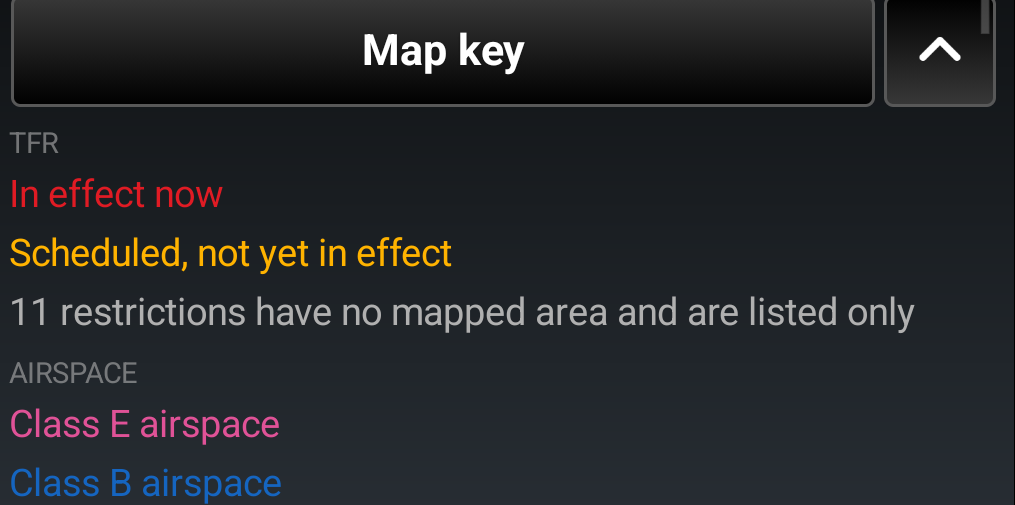
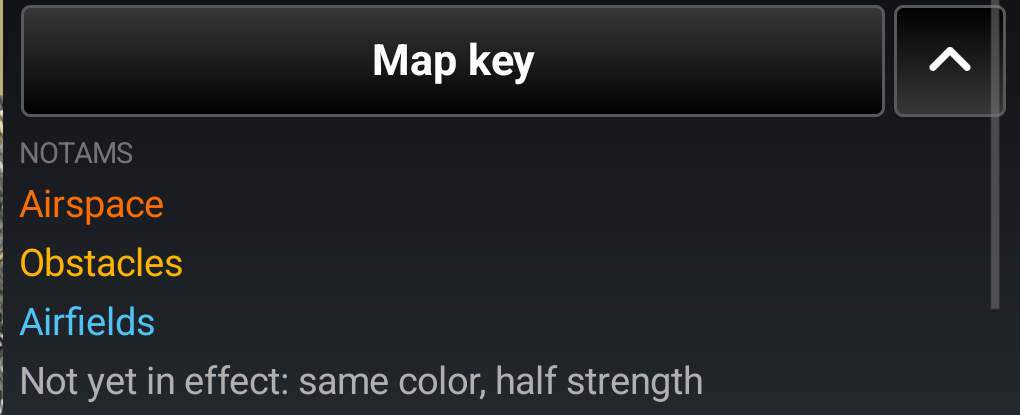
AirAware 0.5: manual, guide and README for NOTAMs; callout cleared on Back
- Manual: two NOTAM pages (the row with its key, a details page), the layer
  list and map key pictures retaken with the new row, the settings list and
  overview updated to seven layers, version stamp 0.5. Pictures from the dev
  build on s10-dev-3, cropped to the pane; the map shot waits for the signed
  build.
- USER_GUIDE and README carry the NOTAM section and the 0.5 download block;
  the plugin description names NOTAMs.
- A tap opening our page now clears ATAK's own focus and pinned callout, and
  Back does too: a pick from ATAK's Select Item list selected the item before
  our page opened and left "UAS / 34.02639 ..." pinned at the top of the map
  after Back (operator, 2026-10-09). UNFOCUS and HIDE_DETAILS are what ATAK's
  own list items send.
- From the security review: a record with a non-finite or off-globe
  coordinate is dropped, a radius is clamped, a tile may not inflate past
  48 MB, tile_degrees is clamped to 1..10.

Changed region(s): [[0.0, 0.0, 1.0, 0.7518], [0.0, 0.694, 0.7025, 1.0], [0.0, 0.5783, 0.9163, 0.6651]]

diff --git a/app/src/main/java/com/atakmap/android/airaware/Notam.java b/app/src/main/java/com/atakmap/android/airaware/Notam.java
@@ -92,7 +92,9 @@ public final class Notam {
             return null;
         final double lat = o.optDouble("lat", Double.NaN);
         final double lon = o.optDouble("lon", Double.NaN);
-        if (Double.isNaN(lat) || Double.isNaN(lon))
+        // Finite and on the globe, or the record is dropped: a NaN or an infinity
+        // handed to the native feature store is a crash, not a bad drawing.
+        if (!finite(lat, 90d) || !finite(lon, 180d))
             return null;
         final List<double[][]> rings = new ArrayList<>();
         final JSONArray p = o.optJSONArray("p");
@@ -109,7 +111,13 @@ public final class Notam {
                         ok = false;
                         break;
                     }
-                    pts[j] = new double[] { c.optDouble(0), c.optDouble(1) };
+                    final double x = c.optDouble(0, Double.NaN);
+                    final double y = c.optDouble(1, Double.NaN);
+                    if (!finite(x, 180d) || !finite(y, 90d)) {
+                        ok = false;
+                        break;
+                    }
+                    pts[j] = new double[] { x, y };
                 }
                 if (ok)
                     rings.add(pts);
@@ -124,7 +132,18 @@ public final class Notam {
                 o.optString("up", ""), o.optString("u", ""),
                 parseTime(o.optString("s", "")), end.isEmpty() ? Long.MAX_VALUE : parseTime(end),
                 "true".equalsIgnoreCase(o.optString("est", "")), lat, lon,
-                Math.max(0d, o.optDouble("r", 0d)), rings);
+                radius(o.optDouble("r", 0d)), rings);
+    }
+
+    private static boolean finite(double v, double limit) {
+        return !Double.isNaN(v) && !Double.isInfinite(v) && Math.abs(v) <= limit;
+    }
+
+    /** A circle's radius, or 0: never negative, never infinite, never wider than a state. */
+    private static double radius(double r) {
+        if (Double.isNaN(r) || Double.isInfinite(r) || r <= 0d)
+            return 0d;
+        return Math.min(r, 500_000d);
     }
 
     /** An FAA time ("2026-10-09T13:59:00Z", with or without millis), PERM, or nothing. */

diff --git a/app/src/main/java/com/atakmap/android/airaware/TilePack.java b/app/src/main/java/com/atakmap/android/airaware/TilePack.java
@@ -119,7 +119,7 @@ public final class TilePack {
         final Index index = new Index();
         index.cycle = root.optString("cycle", "");
         index.built = root.optString("built", "");
-        index.tileDegrees = Math.max(1, root.optInt("tile_degrees", 2));
+        index.tileDegrees = Math.min(10, Math.max(1, root.optInt("tile_degrees", 2)));
         index.credit = root.optString("credit", "");
         final JSONObject tiles = root.optJSONObject("tiles");
         if (tiles != null) {
@@ -271,6 +271,9 @@ public final class TilePack {
         }
     }
 
+    /** The most a tile may inflate to. The largest real one is under 2 MB. */
+    private static final int MAX_INFLATED = 48 * 1024 * 1024;
+
     private static byte[] gunzip(byte[] gz) throws IOException {
         final ByteArrayOutputStream out = new ByteArrayOutputStream(
                 Math.max(64 * 1024, gz.length * 4));
@@ -279,8 +282,11 @@ public final class TilePack {
             in = new GZIPInputStream(new java.io.ByteArrayInputStream(gz));
             final byte[] buf = new byte[32 * 1024];
             int n;
-            while ((n = in.read(buf)) > 0)
+            while ((n = in.read(buf)) > 0) {
                 out.write(buf, 0, n);
+                if (out.size() > MAX_INFLATED)
+                    throw new IOException("tile inflates past " + MAX_INFLATED + " bytes");
+            }
         } finally {
             if (in != null) {
                 try {

diff --git a/app/src/main/java/com/atakmap/android/airaware/plugin/AirAware.java b/app/src/main/java/com/atakmap/android/airaware/plugin/AirAware.java
@@ -287,8 +287,27 @@ public class AirAware implements IPlugin {
             Log.w(TAG, "no radial menu receiver; taps keep ATAK's own menu");
     }
 
+    /**
+     * Take ATAK's own selection off the map: the focus and the callout it pins to the
+     * top ("UAS / N 34.02639 W 118.48278 / 117 ft MSL"). A pick from ATAK's Select Item
+     * list selects the item itself, before our page opens, and answering the menu
+     * question does not reach that path -- so the callout sat there after Back
+     * (operator, 2026-10-09). These two are what ATAK's own list items send.
+     */
+    public static void clearAtakSelection() {
+        try {
+            AtakBroadcast.getInstance().sendBroadcast(
+                    new Intent("com.atakmap.android.maps.UNFOCUS"));
+            AtakBroadcast.getInstance().sendBroadcast(
+                    new Intent("com.atakmap.android.maps.HIDE_DETAILS"));
+        } catch (RuntimeException e) {
+            Log.d(TAG, "could not clear ATAK's selection: " + e);
+        }
+    }
+
     /** Whatever the tapped item is, on AirAware's own page. */
     private void openFor(MapItem item) {
+        clearAtakSelection();
         try {
             final String notam = item.getMetaString("tfr_notam_id", null);
             if (notam != null) {

diff --git a/app/src/main/java/com/atakmap/android/airaware/ui/TfrPane.java b/app/src/main/java/com/atakmap/android/airaware/ui/TfrPane.java
@@ -197,6 +197,8 @@ public class TfrPane implements TfrManager.Listener {
         detailsBack.setOnClickListener(new View.OnClickListener() {
             @Override
             public void onClick(View v) {
+                // Back takes ATAK's pinned callout with it, whichever way the item was picked.
+                com.atakmap.android.airaware.plugin.AirAware.clearAtakSelection();
                 showList();
             }
         });

diff --git a/docs/USER_GUIDE.md b/docs/USER_GUIDE.md
@@ -1,17 +1,17 @@
 # AirAware for ATAK — User Guide
 
-**Version 0.4 · takwerx**
+**Version 0.5 · takwerx**
 
-**Download AirAware 0.4** (pick the one matching your ATAK-CIV version, sideload, then load it in ATAK's Plugins manager):
+**Download AirAware 0.5** (pick the one matching your ATAK-CIV version, sideload, then load it in ATAK's Plugins manager):
 
-- **ATAK-CIV 5.6:** https://github.com/takwerx/air-aware/releases/download/v0.4/ATAK-Plugin-AirAware-0.4--5.6.0-civ-release.apk
-- **ATAK-CIV 5.7:** https://github.com/takwerx/air-aware/releases/download/v0.4/ATAK-Plugin-AirAware-0.4--5.7.0-civ-release.apk
-- **ATAK-CIV 5.8:** https://github.com/takwerx/air-aware/releases/download/v0.4/ATAK-Plugin-AirAware-0.4--5.8.0-civ-release.apk
+- **ATAK-CIV 5.6:** https://github.com/takwerx/air-aware/releases/download/v0.5/ATAK-Plugin-AirAware-0.5--5.6.0-civ-release.apk
+- **ATAK-CIV 5.7:** https://github.com/takwerx/air-aware/releases/download/v0.5/ATAK-Plugin-AirAware-0.5--5.7.0-civ-release.apk
+- **ATAK-CIV 5.8:** https://github.com/takwerx/air-aware/releases/download/v0.5/ATAK-Plugin-AirAware-0.5--5.8.0-civ-release.apk
 
 All releases: https://github.com/takwerx/air-aware/releases
 
 AirAware answers one question for anyone working under or in the air: **what is
-in the column of air I am in, and what am I allowed to do here.** Six layers
+in the column of air I am in, and what am I allowed to do here.** Seven layers
 draw on the map, each switched on its own, and a UAS flight planner works out
 the ceiling a mission area needs.
 
@@ -148,6 +148,46 @@ The shape sits on the map over the restriction it came from.
 still matches a live restriction, with a way to remove one that does not.
 
 ---
+
+## NOTAMs
+
+What is going on in the air right now that no chart shows: drone operations,
+parachute drops, towers with their lights out, cranes, closed runways.
+
+![The NOTAM row open: Kinds, Show at and the key](screenshots/40_notam_row.png)
+
+A takwerx relay reads the FAA NOTAM Management Service every three minutes and
+publishes the picture as tiles; the phone reads the tiles and never holds an
+FAA credential. The row says how many NOTAMs are drawn and how old the FAA
+picture is. If no newer picture has reached the phone, it says so in words.
+
+**Kinds** sorts them the way the FAA does, by the first word of the notice:
+
+- **Airspace** (orange): drone activity, parachute jumping, rockets, fireworks,
+  aerobatics, airdrops, blasting, lasers, balloons, gliders, special use areas
+  going active.
+- **Obstacles** (amber): towers with their lights out, cranes, new structures
+  not yet charted. The label says what it is, what is wrong with it and how
+  tall it is: "Tower lights out 303'".
+- **Airfields** (blue): runways and taxiways closed, lighting, services.
+- **Navigation** (gray-blue, off by default): airways, approaches,
+  departures, navaids. For pilots flying procedures.
+- **Other** (off by default): whatever fits none of those.
+
+Where the FAA gives an area, in its geometry or in its text ("3.4NM RADIUS OF
+293012N0951234W", or a list of corners), the plugin draws it. Otherwise a
+NOTAM is a glyph at its point. A NOTAM that has not started yet is drawn at
+half strength.
+
+![A NOTAM's details page](screenshots/41_notam_details.png)
+
+Tap one for its page: the text as the FAA issued it, when it started and ends,
+its altitudes, the kind, and the airport or center it was filed under. Nothing
+is paraphrased; the abbreviations are the language pilots read.
+
+> A NOTAM is a notice, not a restriction. A drone-activity NOTAM tells pilots
+> to expect drones; it does not close the airspace. Restrictions are the TFR
+> layer. Always check the official NOTAM search before a flight.
 
 ## Airspace
 

diff --git a/README.md b/README.md
@@ -1,10 +1,10 @@
 ATAK Plugin — AirAware
 
-**Download AirAware 0.4** (pick the one matching your ATAK-CIV version, sideload, then load it in ATAK's Plugins manager):
+**Download AirAware 0.5** (pick the one matching your ATAK-CIV version, sideload, then load it in ATAK's Plugins manager):
 
-- **ATAK-CIV 5.6:** https://github.com/takwerx/air-aware/releases/download/v0.4/ATAK-Plugin-AirAware-0.4--5.6.0-civ-release.apk
-- **ATAK-CIV 5.7:** https://github.com/takwerx/air-aware/releases/download/v0.4/ATAK-Plugin-AirAware-0.4--5.7.0-civ-release.apk
-- **ATAK-CIV 5.8:** https://github.com/takwerx/air-aware/releases/download/v0.4/ATAK-Plugin-AirAware-0.4--5.8.0-civ-release.apk
+- **ATAK-CIV 5.6:** https://github.com/takwerx/air-aware/releases/download/v0.5/ATAK-Plugin-AirAware-0.5--5.6.0-civ-release.apk
+- **ATAK-CIV 5.7:** https://github.com/takwerx/air-aware/releases/download/v0.5/ATAK-Plugin-AirAware-0.5--5.7.0-civ-release.apk
+- **ATAK-CIV 5.8:** https://github.com/takwerx/air-aware/releases/download/v0.5/ATAK-Plugin-AirAware-0.5--5.8.0-civ-release.apk
 
 All releases: https://github.com/takwerx/air-aware/releases
 
@@ -19,11 +19,19 @@ in the column of air I am in, and what am I allowed to do here. It is built for
 wildfire aviation and UAS crews and draws everything on the operator's own
 device, with no TAK Server and no Data Sync mission in the path.
 
-Six layers, each switched on its own from the front page:
+Seven layers, each switched on its own from the front page:
 
   TFR                 FAA Temporary Flight Restrictions, drawn as 3D volumes
                       from the published floor to the published ceiling, red
                       when in effect and amber when scheduled.
+
+  NOTAMs              What is going on in the air right now that no chart
+                      shows: drone operations, parachute drops, towers with
+                      their lights out, cranes, closed runways. Read every
+                      three minutes from the FAA NOTAM Management Service by
+                      a takwerx relay and published as tiles; the phone never
+                      holds an FAA credential. Colored by kind, with the FAA
+                      text as issued on the details page.
 
   Airspace            Class A through G, one shelf per published step, so the
                       upside-down wedding cake over a Class B airport is drawn
